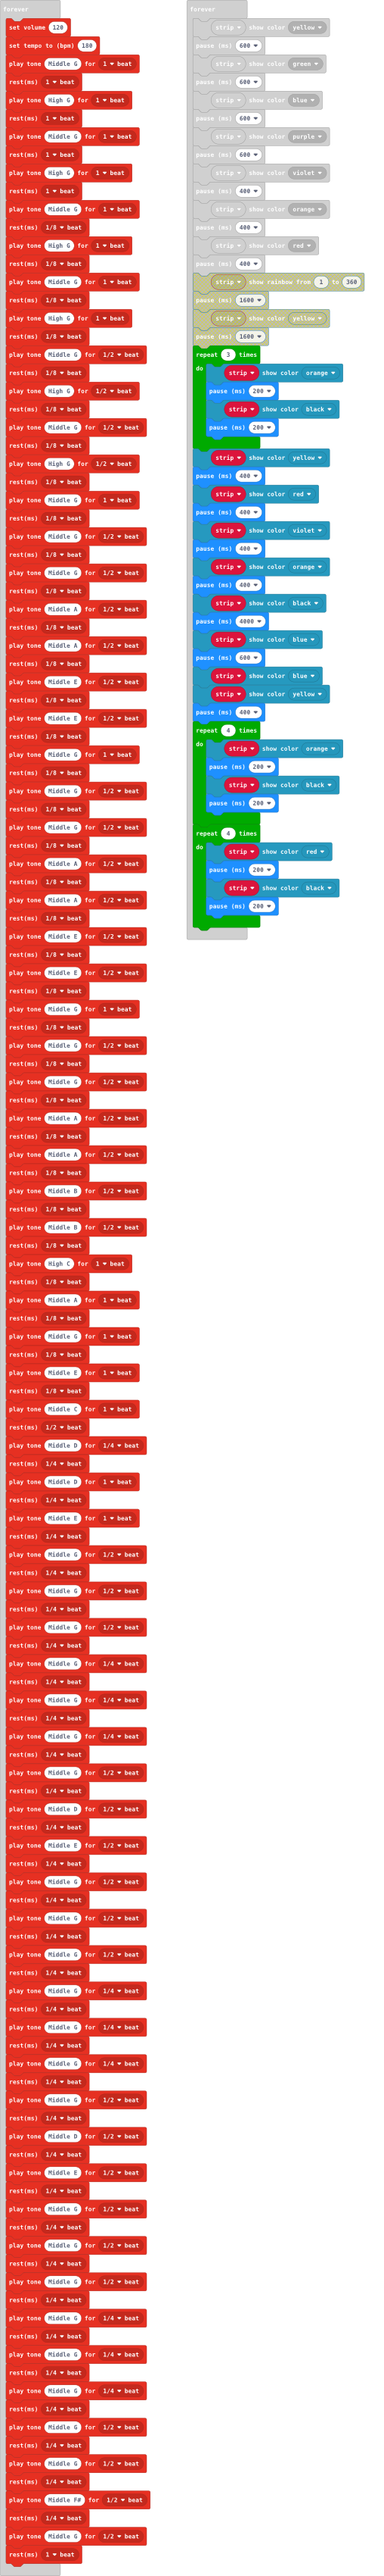
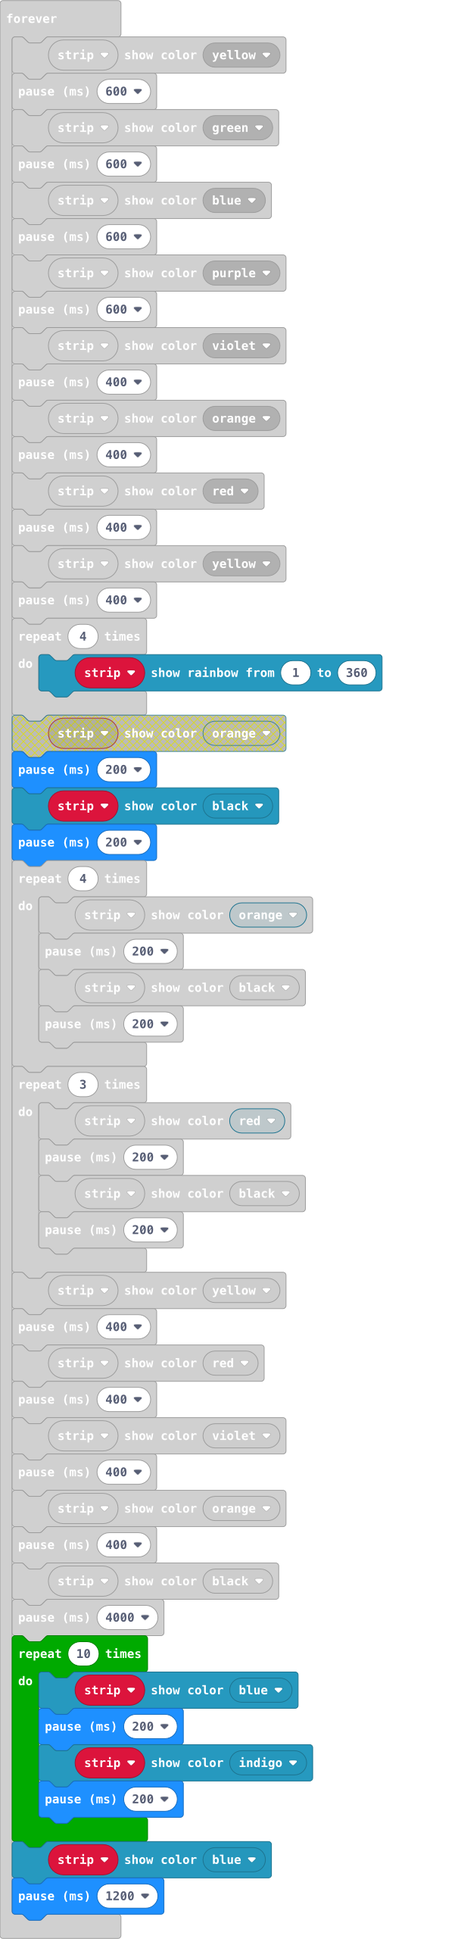
Update main.blocks, main.ts

diff --git a/main.ts b/main.ts
@@ -165,19 +165,19 @@ basic.forever(function () {
     strip.showColor(neopixel.colors(NeoPixelColors.Yellow))
     basic.pause(400)
     for (let index = 0; index < 4; index++) {
-        strip.showColor(neopixel.colors(NeoPixelColors.Orange))
+        strip.showRainbow(1, 360)
         basic.pause(200)
         strip.showColor(neopixel.colors(NeoPixelColors.Black))
         basic.pause(200)
     }
     for (let index = 0; index < 4; index++) {
-        strip.showColor(neopixel.colors(NeoPixelColors.Red))
+        strip.showColor(neopixel.colors(NeoPixelColors.Orange))
         basic.pause(200)
         strip.showColor(neopixel.colors(NeoPixelColors.Black))
         basic.pause(200)
     }
     for (let index = 0; index < 3; index++) {
-        strip.showColor(neopixel.colors(NeoPixelColors.Orange))
+        strip.showColor(neopixel.colors(NeoPixelColors.Red))
         basic.pause(200)
         strip.showColor(neopixel.colors(NeoPixelColors.Black))
         basic.pause(200)
@@ -192,7 +192,12 @@ basic.forever(function () {
     basic.pause(400)
     strip.showColor(neopixel.colors(NeoPixelColors.Black))
     basic.pause(4000)
+    for (let index = 0; index < 10; index++) {
+        strip.showColor(neopixel.colors(NeoPixelColors.Blue))
+        basic.pause(200)
+        strip.showColor(neopixel.colors(NeoPixelColors.Indigo))
+        basic.pause(200)
+    }
     strip.showColor(neopixel.colors(NeoPixelColors.Blue))
-    basic.pause(600)
-    strip.showColor(neopixel.colors(NeoPixelColors.Blue))
+    basic.pause(1200)
 })
